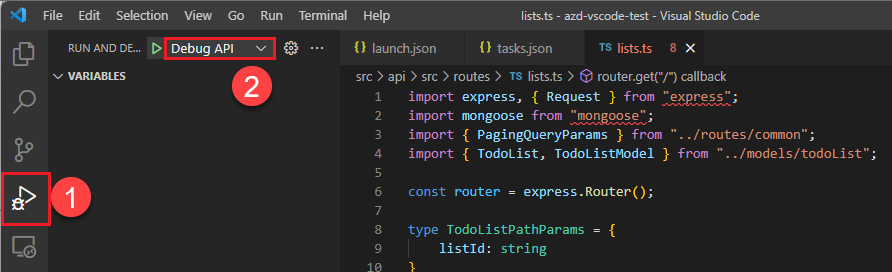
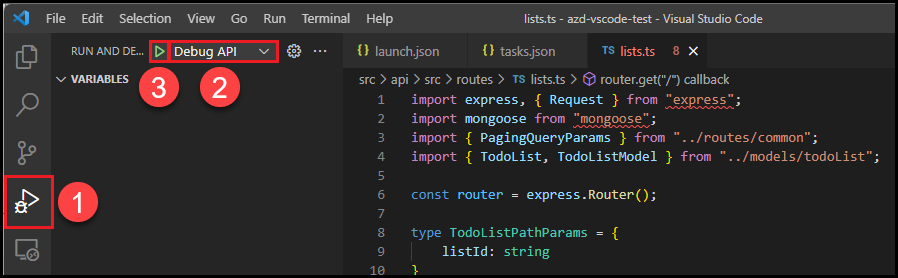
debug article changes

diff --git a/articles/azure-dev-cli/how-to-use-vscode-extension-to-debug-locally.md b/articles/azure-dev-cli/how-to-use-vscode-extension-to-debug-locally.md
@@ -3,7 +3,7 @@ title: Debug Azure apps using the Azure Developer CLI Visual Studio Code extensi
 description: How to use the VS Code extension for Azure Developer CLI to run and debug locally.
 author: puicchan
 ms.author: puichan
-ms.date: 06/13/2021
+ms.date: 06/20/2021
 ms.topic: conceptual
 ms.custom: devx-track-azdevcli
 ms.prod: azure
@@ -14,7 +14,7 @@ In this article, you learn how to use the [Visual Studio Code](https://code.visu
 
 ## Prerequisites
 
-This article assumes you've installed the azd  and created an app from an azd template. If you are new to azd, begin with [Get started](get-started.md) and then return to this article.
+This article assumes you've installed the azd. If you are new to azd, begin with [Get started](get-started.md) and then return to this article.
 
 ## Install the Visual Studio Code extension for Azure Developer CLI
 
@@ -40,7 +40,9 @@ This article assumes you've installed the azd  and created an app from an azd te
 
     !["Visual Studio Code azd extension option to initialize a new app"](media/how-to-use-vscode-extension-to-debug-locally/cmd-init.png)
 
-1. Select one of templates and enter the requested values.
+1. Select the template `Azure-Samples/todo-nodejs-mongo`.
+
+    !["This article uses the todo-nodejs-mongo sample template"](media/how-to-use-vscode-extension-to-debug-locally/sample-template.png)
 
 The following files are included in the .vscode folder:
 
@@ -65,19 +67,27 @@ The debug configuration **Debug API** automatically runs the API server and atta
 
 1. Set a breakpoint at line 16.
 
-1. In the Activity Bar, select **Run and Debug** and the **Debug API** debug configuration.
+1. In the Activity Bar, select **Run and Debug**, the **Debug API** debug configuration, and the **Start Debugging** arrow.
 
     !["Setting the debug configuration to Debug API"](media/how-to-use-vscode-extension-to-debug-locally/debug-api.png)
 
+1. From the **View** menu, select **Debug Console**.
+
+1. Wait for the message indicating the debugger is listening on port 3100.
+
+    !["Message in Debug Console indicating debugger is listening on port 3100"](media/how-to-use-vscode-extension-to-debug-locally/started-listening-on-port.png)
+
 1. In your preferred terminal shell, enter the following command: `curl http://localhost:3100/lists`
 
-1. When the breakpoint is hit, app execution will pause. Press &lt;F5> to continue running the app. The test app returns an empty list.
+    !["Use cURL to connect to the API server"](media/how-to-use-vscode-extension-to-debug-locally/run-curl-command.png)
+
+1. When the breakpoint is hit, app execution will pause. At this point, you can do standard debugging tasks such inspect variables, look at the call stack, and set additional breakpoints. Press &lt;F5> to continue running the app. The sample app returns an empty list.
 
 ## Debug a React Frontend app
 
 To use the **Debug Web** configuration, you must start both the API server and the development web server. To test this pattern, do the following steps:
 
-1. Open the Command Palette and run **Task: run task**.
+1. Open the Command Palette and run **Task: Run task**.
 
     !["Running a Visual Studio Code Task"](media/how-to-use-vscode-extension-to-debug-locally/run-task.png)
 
@@ -91,13 +101,13 @@ To use the **Debug Web** configuration, you must start both the API server and t
 
 1. Set a breakpoint on line 150 (the first line of the `deleteItems` function).
 
-1. In the Activity Bar, select **Run and Debug** and the **Debug API** debug configuration.
+1. In the Activity Bar, select **Run and Debug**, the **Debug Web** debug configuration, and the **Start Debugging** arrow.
 
     !["Setting the debug configuration to Debug Web"](media/how-to-use-vscode-extension-to-debug-locally/debug-web.png)
 
 1. A browser is launched automatically at the following URL: `http://localhost:3000`.
 
-1. You can now debug the app.
+1. You can now debug the app by adding an item, selecting it from the list, and selecting **Delete**. When the breakpoint is hit, app execution will pause. At this point, you can do standard debugging tasks such inspect variables, look at the call stack, and set additional breakpoints. Press &lt;F5> to continue running the app and the item will be deleted.
 
 ## Next steps
 
